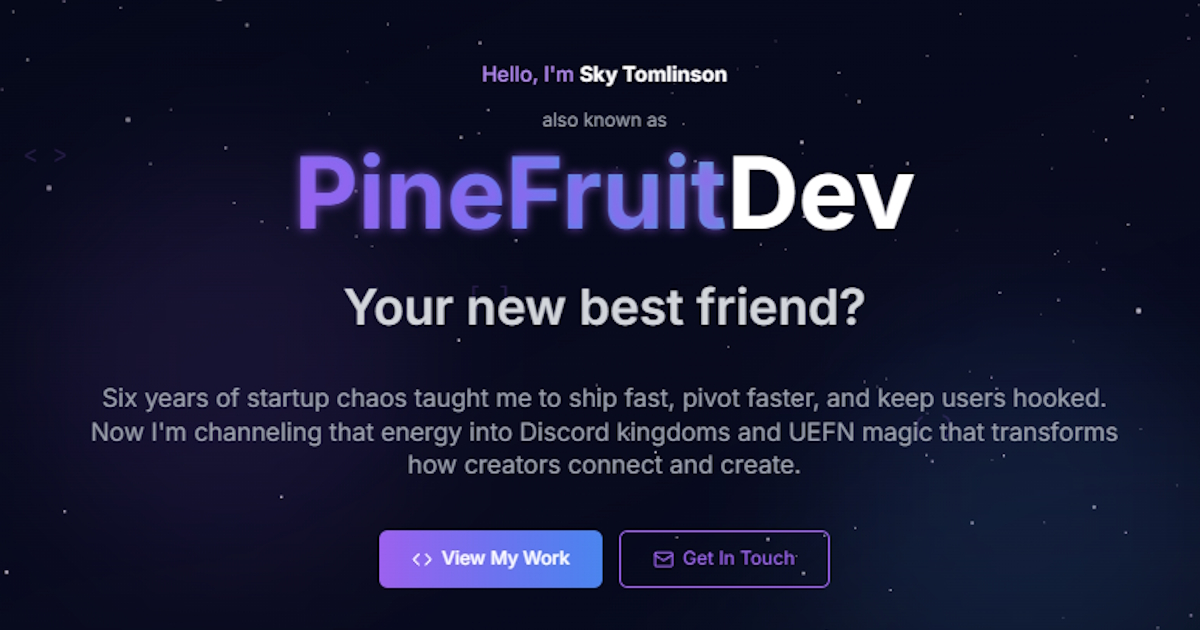
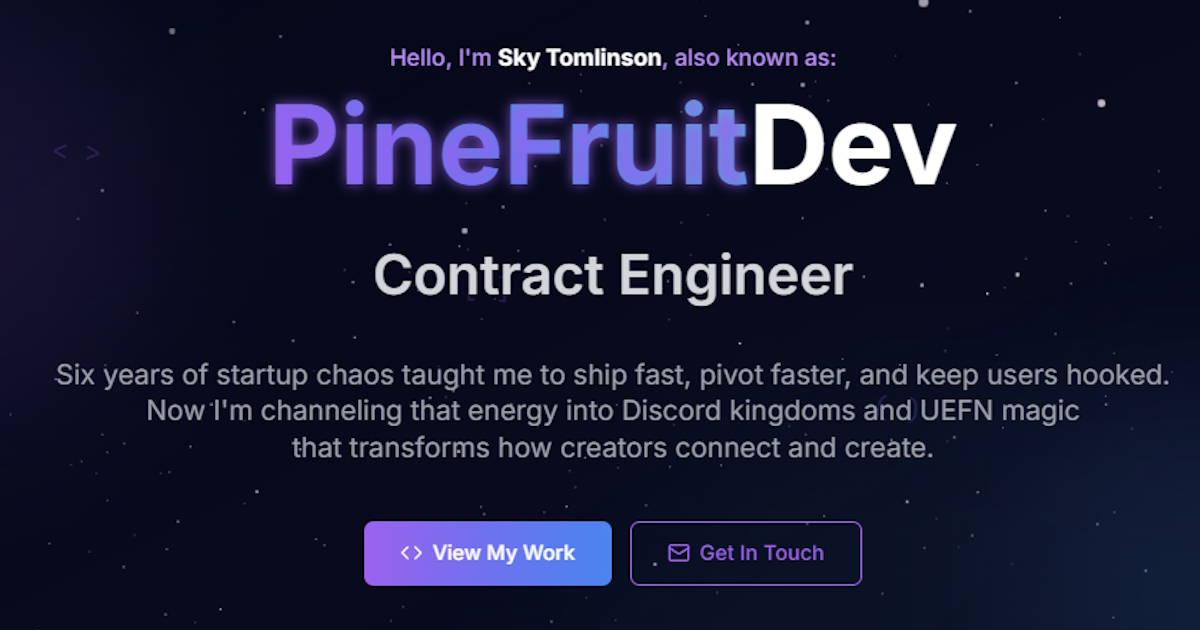
Minor polish tweaks

diff --git a/src/components/sections/ProjectsSection.tsx b/src/components/sections/ProjectsSection.tsx
@@ -339,7 +339,68 @@ const ProjectGrid: React.FC<ProjectGridProps> = ({ projects }) => {
 const ProjectsSection: React.FC = () => {
 
   const projects: Project[] = [
-    // Game Dev Projects
+    // Discord Bots
+    {
+      id: 'modulix-bot',
+      title: 'Modulix Bot',
+      description: 'Next-generation Discord bot designed to replace MEE6',
+      longDescription: 'A comprehensive Discord automation solution featuring advanced moderation, community engagement tools, custom commands, analytics dashboard, and enterprise-grade scalability. Built to address the limitations of existing bots with modern architecture and extensive customization options.',
+      technologies: ['Discord.js', 'TypeScript', 'Node.js', 'MongoDB', 'Docker', 'React Dashboard'],
+      imageUrl: '/projects/modulix-discord-bot-project.jpg',
+      category: 'discord-bot',
+    },
+    {
+      id: 'readyup-bot',
+      title: 'ReadyUp Bot',
+      description: 'Comprehensive UEFN creator toolkit with verification and analytics',
+      longDescription: 'An all-in-one Discord bot solution for UEFN creators featuring user verification systems, Fortnite map analytics diagnosis, discovery tab alerts, creator tools, and community management features. Plans to expand to all UGC platforms. Serving the ReadyUp community and growing.',
+      technologies: ['Discord.js', 'TypeScript', 'Node.js', 'PostgreSQL', 'Epic Games API', 'Redis'],
+      imageUrl: '/projects/readyup-discord-bot-project.jpg',
+      liveUrl: 'https://getreadyup.com',
+      category: 'discord-bot',
+    },
+    {
+      id: 'tstemplatebot',
+      title: 'TSTemplateBot',
+      description: 'Open source TypeScript Discord bot template',
+      longDescription: 'A comprehensive template for building Discord bots with TypeScript. Features modern architecture, command handling, database integration, and development best practices. Open source project to help other developers get started with Discord bot development.',
+      technologies: ['TypeScript', 'Discord.js', 'Node.js', 'Open Source'],
+      imageUrl: '/projects/tstemplate-discord-bot-project.jpg',
+      githubUrl: 'https://github.com/PineFruitDev/TSTemplateBot',
+      category: 'discord-bot',
+    },
+    // Discord Servers
+    {
+      id: 'uefn-tag-server',
+      title: 'UEFN Tag Discord',
+      description: 'UEFN creator community and collaboration space',
+      longDescription: 'A focused Discord community for UEFN creators featuring collaboration channels, resource sharing, creator spotlights, and community events. Custom server design with automated moderation and engagement features.',
+      technologies: ['Discord Server Design', 'Community Architecture', 'Moderation Systems'],
+      imageUrl: '/projects/uefn-tag-discord-community-project.jpg',
+      liveUrl: 'https://discord.gg/Zt2zu6gGmM',
+      category: 'discord-server',
+    },
+    {
+      id: 'uefn-market-server',
+      title: 'UEFN Market Discord',
+      description: 'Community hub for UGC creators and service providers',
+      longDescription: 'A thriving Discord community connecting UEFN creators with specialized service providers. Features custom server architecture, automated verification, project matching, and community management systems.',
+      technologies: ['Discord Server Design', 'Community Management', 'Custom Bots', 'Verification Systems'],
+      imageUrl: '/projects/uefn-market-discord-server-project.jpg',
+      liveUrl: 'https://discord.gg/uefnmarket',
+      category: 'discord-server',
+    },
+    {
+      id: 'readyup-server',
+      title: 'ReadyUp Discord',
+      description: 'UEFN creator toolkit community',
+      longDescription: 'The official Discord community for ReadyUp, featuring creator tools, verification systems, map analytics, and community support. Integrated with the ReadyUp Bot for seamless user experience.',
+      technologies: ['Discord Server Design', 'Bot Integration', 'Creator Tools', 'Analytics'],
+      imageUrl: '/projects/readyup-discord-community-project.jpg',
+      liveUrl: 'https://discord.gg/getreadyup',
+      category: 'discord-server',
+    },
+    // NDA Projects
     {
       id: 'aaa-game-project',
       title: 'AAA Game Development',
@@ -360,68 +421,6 @@ const ProjectsSection: React.FC = () => {
       category: 'game',
       isNDA: true,
     },
-    // Discord Bots
-    {
-      id: 'readyup-bot',
-      title: 'ReadyUp Bot',
-      description: 'Comprehensive UEFN creator toolkit with verification and analytics',
-      longDescription: 'An all-in-one Discord bot solution for UEFN creators featuring user verification systems, Fortnite map analytics diagnosis, discovery tab alerts, creator tools, and community management features. Plans to expand to all UGC platforms. Serving the ReadyUp community and growing.',
-      technologies: ['Discord.js', 'TypeScript', 'Node.js', 'PostgreSQL', 'Epic Games API', 'Redis'],
-      imageUrl: '/projects/readyup-discord-bot-project.jpg',
-      liveUrl: 'https://getreadyup.com',
-      category: 'discord-bot',
-    },
-    {
-      id: 'modulix-bot',
-      title: 'Modulix Bot',
-      description: 'Next-generation Discord bot designed to replace MEE6',
-      longDescription: 'A comprehensive Discord automation solution featuring advanced moderation, community engagement tools, custom commands, analytics dashboard, and enterprise-grade scalability. Built to address the limitations of existing bots with modern architecture and extensive customization options.',
-      technologies: ['Discord.js', 'TypeScript', 'Node.js', 'MongoDB', 'Docker', 'React Dashboard'],
-      imageUrl: '/projects/modulix-discord-bot-project.jpg',
-      category: 'discord-bot',
-    },
-    {
-      id: 'tstemplatebot',
-      title: 'TSTemplateBot',
-      description: 'Open source TypeScript Discord bot template',
-      longDescription: 'A comprehensive template for building Discord bots with TypeScript. Features modern architecture, command handling, database integration, and development best practices. Open source project to help other developers get started with Discord bot development.',
-      technologies: ['TypeScript', 'Discord.js', 'Node.js', 'Open Source'],
-      imageUrl: '/projects/tstemplate-discord-bot-project.jpg',
-      githubUrl: 'https://github.com/PineFruitDev/TSTemplateBot',
-      category: 'discord-bot',
-    },
-    // Discord Servers
-    {
-      id: 'uefn-market-server',
-      title: 'UEFN Market Discord',
-      description: 'Community hub for UGC creators and service providers',
-      longDescription: 'A thriving Discord community connecting UEFN creators with specialized service providers. Features custom server architecture, automated verification, project matching, and community management systems.',
-      technologies: ['Discord Server Design', 'Community Management', 'Custom Bots', 'Verification Systems'],
-      imageUrl: '/projects/uefn-market-discord-server-project.jpg',
-      liveUrl: 'https://discord.gg/uefnmarket',
-      category: 'discord-server',
-    },
-    {
-      id: 'uefn-tag-server',
-      title: 'UEFN Tag Discord',
-      description: 'UEFN creator community and collaboration space',
-      longDescription: 'A focused Discord community for UEFN creators featuring collaboration channels, resource sharing, creator spotlights, and community events. Custom server design with automated moderation and engagement features.',
-      technologies: ['Discord Server Design', 'Community Architecture', 'Moderation Systems'],
-      imageUrl: '/projects/uefn-tag-discord-community-project.jpg',
-      liveUrl: 'https://discord.gg/Zt2zu6gGmM',
-      category: 'discord-server',
-    },
-    {
-      id: 'readyup-server',
-      title: 'ReadyUp Discord',
-      description: 'UEFN creator toolkit community',
-      longDescription: 'The official Discord community for ReadyUp, featuring creator tools, verification systems, map analytics, and community support. Integrated with the ReadyUp Bot for seamless user experience.',
-      technologies: ['Discord Server Design', 'Bot Integration', 'Creator Tools', 'Analytics'],
-      imageUrl: '/projects/readyup-discord-community-project.jpg',
-      liveUrl: 'https://discord.gg/getreadyup',
-      category: 'discord-server',
-    },
-    // Other Projects
     {
       id: 'brand-integrations',
       title: 'Brand Integration Projects',
@@ -432,6 +431,7 @@ const ProjectsSection: React.FC = () => {
       category: 'other',
       isNDA: true,
     },
+    // Other Projects (moved to end)
     {
       id: 'bluesky-labeller',
       title: 'Bluesky UEFN Labeller',

diff --git a/src/components/sections/HeroSection.tsx b/src/components/sections/HeroSection.tsx
@@ -2,7 +2,7 @@
 
 import React, { useEffect, useState } from 'react';
 import { motion } from 'framer-motion';
-import { Github, Linkedin, Mail, Code, Gamepad2, MessageCircle } from 'lucide-react';
+import { Github, Linkedin, Mail, Code, MessageCircle, Twitter } from 'lucide-react';
 import Button from '@/components/ui/Button';
 import Section from '@/components/layout/Section';
 import { useMousePosition } from '@/hooks/useMousePosition';
@@ -137,14 +137,7 @@ const HeroSection: React.FC = () => {
           className="text-lg md:text-xl text-purple-400 mb-4 font-medium"
           variants={itemVariants}
         >
-          Hello, I&apos;m <strong className="text-white">Sky Tomlinson</strong>
-        </motion.p>
-        
-        <motion.p
-          className="text-md md:text-lg text-gray-400 mb-2"
-          variants={itemVariants}
-        >
-          also known as
+          Hello, I&apos;m <strong className="text-white">Sky Tomlinson</strong>, <span className="text-purple-400">also known as:</span>
         </motion.p>
 
         {/* Name */}
@@ -225,7 +218,9 @@ const HeroSection: React.FC = () => {
             whileHover={{ scale: 1.1, y: -2 }}
             whileTap={{ scale: 0.95 }}
           >
-            <MessageCircle className="w-6 h-6" />
+            <svg className="w-6 h-6" viewBox="0 0 24 24" fill="currentColor">
+              <path d="M20.317 4.3698a19.7913 19.7913 0 0 0-4.8851-1.5152.0741.0741 0 0 0-.0789.0371c-.211.3753-.4447.8648-.6083 1.2495-1.8447-.2762-3.68-.2762-5.4868 0-.1636-.3933-.4058-.8742-.6177-1.2495a.077.077 0 0 0-.0789-.037 19.7363 19.7363 0 0 0-4.8852 1.515.0699.0699 0 0 0-.0321.0277C.5334 9.0458-.319 13.5799.0992 18.0578a.0824.0824 0 0 0 .0312.0561c2.0528 1.5076 4.0413 2.4228 5.9929 3.0294a.0777.0777 0 0 0 .0842-.0276c.4616-.6304.8731-1.2952 1.226-1.9942a.076.076 0 0 0-.0416-.1057c-.6528-.2476-1.2743-.5495-1.8722-.8923a.077.077 0 0 1-.0076-.1277c.1258-.0943.2517-.1923.3718-.2914a.0743.0743 0 0 1 .0776-.0105c3.9278 1.7933 8.18 1.7933 12.0614 0a.0739.0739 0 0 1 .0785.0095c.1202.099.246.1981.3728.2924a.077.077 0 0 1-.0067.1276 12.2986 12.2986 0 0 1-1.873.8914.0766.0766 0 0 0-.0408.1067c.3604.698.7719 1.3628 1.225 1.9932a.076.076 0 0 0 .0842.0286c1.961-.6067 3.9495-1.5219 6.0023-3.0294a.077.077 0 0 0 .0313-.0552c.5004-5.177-.8382-9.6739-3.5485-13.6604a.061.061 0 0 0-.0312-.0286zM8.02 15.3312c-1.1825 0-2.1569-1.0857-2.1569-2.419 0-1.3332.9555-2.4189 2.157-2.4189 1.2108 0 2.1757 1.0952 2.1568 2.419-.0189 1.3332-.9555 2.4189-2.1569 2.4189zm7.9758 0c-1.1825 0-2.1569-1.0857-2.1569-2.419 0-1.3332.9554-2.4189 2.1569-2.4189 1.2108 0 2.1757 1.0952 2.1568 2.419 0 1.3332-.946 2.4189-2.1568 2.4189Z"/>
+            </svg>
           </motion.a>
           
           <motion.a
@@ -258,7 +253,9 @@ const HeroSection: React.FC = () => {
             whileHover={{ scale: 1.1, y: -2 }}
             whileTap={{ scale: 0.95 }}
           >
-            <Gamepad2 className="w-6 h-6" />
+            <svg width="24" height="24" viewBox="0 0 1200 1227" fill="none" xmlns="http://www.w3.org/2000/svg" className="w-6 h-6">
+              <path d="M714.163 519.284L1160.89 0H1055.03L667.137 450.887L357.328 0H0L468.492 681.821L0 1226.37H105.866L515.491 750.218L842.672 1226.37H1200L714.137 519.284H714.163ZM569.165 687.828L521.697 619.934L144.011 79.6944H306.615L611.412 515.685L658.88 583.579L1055.08 1150.3H892.476L569.165 687.854V687.828Z" fill="currentColor"/>
+            </svg>
           </motion.a>
         </motion.div>
 

diff --git a/src/app/layout.tsx b/src/app/layout.tsx
@@ -69,8 +69,11 @@ export const metadata: Metadata = {
     google: 'your-google-verification-code',
   },
   icons: {
-    icon: '/favicon.ico',
-    shortcut: '/favicon.ico',
+    icon: [
+      { url: '/favicon.png?v=2', sizes: '128x128', type: 'image/png' },
+      { url: '/favicon.ico?v=2', sizes: 'any' },
+    ],
+    shortcut: '/favicon.ico?v=2',
     apple: '/apple-touch-icon.png',
   },
   manifest: '/manifest.json',
